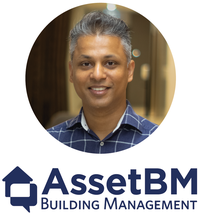
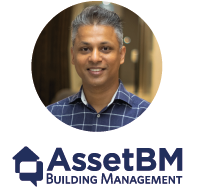
Updates as per direction, new photos

diff --git a/gary.html b/gary.html
@@ -17,12 +17,12 @@
 
             <a href='http://assetbm.com.au' title="AssetBM" style="border:none; text-decoration:none;">
                 <a href='http://assetbm.com.au' title="AssetBM" style="border:none; text-decoration:none;">
-                    <img width="200" src="jason.png" moz-do-not-send="true" style="border:none; width:200px; ">
+                    <img width="200" src="gary.png" moz-do-not-send="true" style="border:none; width:200px; ">
 
             </a>
         </td>
 
-   
+     
 
         <td style="margin:0; padding:0; border-left:solid #ccc 2px">
             <table id="sig2" cellspacing='0' cellpadding='0' border-spacing='0'
@@ -31,17 +31,17 @@
                     <td style="margin:0; padding:0 0 0 20px; font-family:'Arial',sans-serif; white-space:nowrap; ">
 
                         <h1 style="font-family:'Arial',sans-serif; font-size:18px;  margin-bottom:10px;">
-                            <span style="color:#000">Jason Phang</span><span
-                                style="font-size:14px;  font-weight:normal; text-transform:none;"><br>Building Manager, Teri Apartments</span>
+                            <span style="color:#000">Gary Stickland</span><span
+                                style="font-size:14px;  font-weight:normal; text-transform:none;"><br>Building Manager, North Apartments</span>
 
                         </h1>
                         <span
-                            style="text-decoration:none;font-family:'Arial',sans-serif; font-size:14px; color:black;">0457 237 488</span><br>
+                            style="text-decoration:none;font-family:'Arial',sans-serif; font-size:14px; color:black;">0427 213 296</span><br>
 
-                        <span style="font-size:14px;  font-weight:normal; text-transform:none;"><br>85 Market Street, South Melbourne VIC 3205</span><br>
+                        <span style="font-size:14px;  font-weight:normal; text-transform:none;"><br>33 Blackwood St North Melbourne, VIC 3051</span><br>
 
-                        <span style="font-size:12px;  font-weight:normal; text-transform:none;"><br>Office Hours 8:00 -
-                            12:00 M-F, Excl public holidays</span>
+                        <span style="font-size:12px;  font-weight:normal; text-transform:none;"><br>Office Hours 7:30 -
+                            4:30 M-F, Excl public holidays</span>
                         <span style="font-size:12px;  font-weight:normal; text-transform:none;"><br>After Hours
                             (emergencies only): (03) 9818 2488</span>
                         <br>
@@ -59,4 +59,5 @@
         transmission and any accompanying attachments contain confidential information intended only for the use of the
         individual or entity named above. Any dissemination, distribution, copying or action taken in reliance on the
         contents of this communication by anyone other than the intended recipient is strictly prohibited. If you have
-        received this communication in error please immediately delete the E-mail and notify the sender.</span></p><br>
+        received this communication in error please immediately delete the E-mail and notify the sender.</span></p>
+<br />

diff --git a/greg.html b/greg.html
@@ -16,15 +16,13 @@
         <td width="200" style="width:200px; margin:0; padding:0;">
 
             <a href='http://assetbm.com.au' title="AssetBM" style="border:none; text-decoration:none;">
-                <img style=" margin:0  15px 5px 15px;" src="https://assetbm.com.au/signatures/logo.png"
-                    moz-do-not-send="true" style="border:none; width:160px; height:41px;">
+                <a href='http://assetbm.com.au' title="AssetBM" style="border:none; text-decoration:none;">
+                    <img width="200" src="logo.png" moz-do-not-send="true" style="border:none; width:200px; ">
 
             </a>
         </td>
 
-        <td width="10"
-            style="width:10px!important; min-width:10px!important; max-width:10px!important; margin:0; padding:0;">
-            &nbsp;&nbsp;</td>
+       
 
         <td style="margin:0; padding:0; border-left:solid #ccc 2px">
             <table id="sig2" cellspacing='0' cellpadding='0' border-spacing='0'
@@ -42,7 +40,7 @@
 
                         <span style="font-size:14px;  font-weight:normal; text-transform:none;"><br>208 Camberwell Rd, Hawthorn East VIC 3123</span><br>
 
-                        <span style="font-size:12px;  font-weight:normal; text-transform:none;"><br>Office Hours 7:30 -
+                        <span style="font-size:12px;  font-weight:normal; text-transform:none;"><br>Office Hours 8:00 -
                             4:30 M-F, Excl public holidays</span>
                         <span style="font-size:12px;  font-weight:normal; text-transform:none;"><br>After Hours
                             (emergencies only): (03) 9818 2488</span>

diff --git a/daniel.html b/daniel.html
@@ -16,14 +16,12 @@
         <td width="200" style="width:200px; margin:0; padding:0;">
 
             <a href='http://assetbm.com.au' title="AssetBM" style="border:none; text-decoration:none;">
-                <img width="200" style=" margin:0  10px 10px 10px;" src="daniel.png" moz-do-not-send="true" style="border:none; width:200px; ">
+                <a href='http://assetbm.com.au' title="AssetBM" style="border:none; text-decoration:none;">
+                    <img width="200" src="daniel.png" moz-do-not-send="true" style="border:none; width:200px; ">
 
             </a>
         </td>
 
-        <td width="10"
-            style="width:10px!important; min-width:10px!important; max-width:10px!important; margin:0; padding:0;">
-            &nbsp;&nbsp;</td>
 
         <td style="margin:0; padding:0; border-left:solid #ccc 2px">
             <table id="sig2" cellspacing='0' cellpadding='0' border-spacing='0'
@@ -42,7 +40,7 @@
                         <span style="font-size:14px;  font-weight:normal; text-transform:none;"><br>101 Tram Road, Doncaster VIC 3108</span><br>
 
                         <span style="font-size:12px;  font-weight:normal; text-transform:none;"><br>Office Hours 8:00 -
-                            4:30 M-F, Excl public holidays</span>
+                            4:00 M-F, Excl public holidays</span>
                         <span style="font-size:12px;  font-weight:normal; text-transform:none;"><br>After Hours
                             (emergencies only): (03) 9818 2488</span>
                         <br>

diff --git a/richard.html b/richard.html
@@ -16,15 +16,13 @@
         <td width="200" style="width:200px; margin:0; padding:0;">
 
             <a href='http://assetbm.com.au' title="AssetBM" style="border:none; text-decoration:none;">
-                <img style=" margin:0  15px 5px 15px;" src="https://assetbm.com.au/signatures/logo.png"
-                    moz-do-not-send="true" style="border:none; width:160px; height:41px;">
+                <a href='http://assetbm.com.au' title="AssetBM" style="border:none; text-decoration:none;">
+                    <img width="200" src="richard.png" moz-do-not-send="true" style="border:none; width:200px; ">
 
             </a>
         </td>
 
-        <td width="10"
-            style="width:10px!important; min-width:10px!important; max-width:10px!important; margin:0; padding:0;">
-            &nbsp;&nbsp;</td>
+
 
         <td style="margin:0; padding:0; border-left:solid #ccc 2px">
             <table id="sig2" cellspacing='0' cellpadding='0' border-spacing='0'
@@ -35,7 +33,6 @@
                         <h1 style="font-family:'Arial',sans-serif; font-size:18px;  margin-bottom:10px;">
                             <span style="color:#000">Richard Ten</span><span
                                 style="font-size:14px;  font-weight:normal; text-transform:none;"><br>Building Manager, Trillium Apartments</span>
-
                         </h1>
                         <span
                             style="text-decoration:none;font-family:'Arial',sans-serif; font-size:14px; color:black;">0426 162 163</span><br>

diff --git a/fotios.html b/fotios.html
@@ -17,14 +17,11 @@
 
             <a href='http://assetbm.com.au' title="AssetBM" style="border:none; text-decoration:none;">
                 <a href='http://assetbm.com.au' title="AssetBM" style="border:none; text-decoration:none;">
-                    <img width="200" style=" margin:0  10px 10px 10px;" src="fotios.png" moz-do-not-send="true" style="border:none; width:200px; ">
+                    <img width="200" src="fotios.png" moz-do-not-send="true" style="border:none; width:200px; ">
 
             </a>
         </td>
 
-        <td width="10"
-            style="width:10px!important; min-width:10px!important; max-width:10px!important; margin:0; padding:0;">
-            &nbsp;&nbsp;</td>
 
         <td style="margin:0; padding:0; border-left:solid #ccc 2px">
             <table id="sig2" cellspacing='0' cellpadding='0' border-spacing='0'
@@ -44,7 +41,7 @@
                         </span><br>
 
                         <span style="font-size:12px;  font-weight:normal; text-transform:none;"><br>Office Hours 7:30 -
-                            4:30 M-F, Excl public holidays</span>
+                            4:00 M-F, Excl public holidays</span>
                         <span style="font-size:12px;  font-weight:normal; text-transform:none;"><br>After Hours
                             (emergencies only): (03) 9818 2488</span>
                         <br>

diff --git a/jack.html b/jack.html
@@ -17,16 +17,12 @@
 
             <a href='http://assetbm.com.au' title="AssetBM" style="border:none; text-decoration:none;">
                 <a href='http://assetbm.com.au' title="AssetBM" style="border:none; text-decoration:none;">
-                    <img width="200" style=" margin:0  10px 10px 10px;" src="jack.png" moz-do-not-send="true" style="border:none; width:200px; ">
+                    <img width="200" src="jack.png" moz-do-not-send="true" style="border:none; width:200px; ">
 
             </a>
         </td>
 
-        <td width="10"
-            style="width:10px!important; min-width:10px!important; max-width:10px!important; margin:0; padding:0;">
-            &nbsp;&nbsp;</td>
-
-        <td style="margin:0; padding:0; border-left:solid #ccc 2px">
+       <td style="margin:0; padding:0; border-left:solid #ccc 2px">
             <table id="sig2" cellspacing='0' cellpadding='0' border-spacing='0'
                 style="padding:0; margin:0; font-family:'Arial',sans-serif; font-size:12px; line-height:16px; color:#000; border-collapse:collapse; -webkit-text-size-adjust:none;">
                 <tr style="margin:0; padding:0;">

diff --git a/cameron.html b/cameron.html
@@ -16,15 +16,13 @@
         <td width="200" style="width:200px; margin:0; padding:0;">
 
             <a href='http://assetbm.com.au' title="AssetBM" style="border:none; text-decoration:none;">
-                <img style=" margin:0  15px 5px 15px;" src="https://assetbm.com.au/signatures/logo.png"
-                    moz-do-not-send="true" style="border:none; width:160px; height:41px;">
+                <a href='http://assetbm.com.au' title="AssetBM" style="border:none; text-decoration:none;">
+                    <img width="200" src="cameron.png" moz-do-not-send="true" style="border:none; width:200px; ">
 
             </a>
         </td>
 
-        <td width="10"
-            style="width:10px!important; min-width:10px!important; max-width:10px!important; margin:0; padding:0;">
-            &nbsp;&nbsp;</td>
+    
 
         <td style="margin:0; padding:0; border-left:solid #ccc 2px">
             <table id="sig2" cellspacing='0' cellpadding='0' border-spacing='0'

diff --git a/chetan.html b/chetan.html
@@ -16,15 +16,11 @@
         <td width="200" style="width:200px; margin:0; padding:0;">
 
             <a href='http://assetbm.com.au' title="AssetBM" style="border:none; text-decoration:none;">
-                <img style=" margin:0  15px 5px 15px;" src="https://assetbm.com.au/signatures/logo.png"
-                    moz-do-not-send="true" style="border:none; width:160px; height:41px;">
+                <a href='http://assetbm.com.au' title="AssetBM" style="border:none; text-decoration:none;">
+                    <img width="200" src="chetan.png" moz-do-not-send="true" style="border:none; width:200px; ">
 
             </a>
         </td>
-
-        <td width="10"
-            style="width:10px!important; min-width:10px!important; max-width:10px!important; margin:0; padding:0;">
-            &nbsp;&nbsp;</td>
 
         <td style="margin:0; padding:0; border-left:solid #ccc 2px">
             <table id="sig2" cellspacing='0' cellpadding='0' border-spacing='0'

diff --git a/krishna.html b/krishna.html
@@ -14,14 +14,14 @@
     <tr>
         <br>
         <td width="200" style="width:200px; margin:0; padding:0;">
-            <img width="200" style=" margin:0  10px 10px 10px;" src="krishna.png" moz-do-not-send="true" style="border:none; width:200px; ">
+            <a href='http://assetbm.com.au' title="AssetBM" style="border:none; text-decoration:none;">
+                <a href='http://assetbm.com.au' title="AssetBM" style="border:none; text-decoration:none;">
+                    <img width="200" src="krishna.png" moz-do-not-send="true" style="border:none; width:200px; ">
 
             </a>
         </td>
 
-        <td width="10"
-            style="width:10px!important; min-width:10px!important; max-width:10px!important; margin:0; padding:0;">
-        </td>
+       
 
         <td style="margin:0; padding:0; border-left:solid #ccc 2px">
             <table id="sig2" cellspacing='0' cellpadding='0' border-spacing='0'

diff --git a/lachlan.html b/lachlan.html
@@ -17,14 +17,12 @@
 
             <a href='http://assetbm.com.au' title="AssetBM" style="border:none; text-decoration:none;">
                 <a href='http://assetbm.com.au' title="AssetBM" style="border:none; text-decoration:none;">
-                    <img width="200" style=" margin:0  10px 10px 10px;" src="lachlan.png" moz-do-not-send="true" style="border:none; width:200px; ">
+                    <img width="200" src="lachlan.png" moz-do-not-send="true" style="border:none; width:200px; ">
 
             </a>
         </td>
 
-        <td width="10"
-            style="width:10px!important; min-width:10px!important; max-width:10px!important; margin:0; padding:0;">
-            &nbsp;&nbsp;</td>
+
 
         <td style="margin:0; padding:0; border-left:solid #ccc 2px">
             <table id="sig2" cellspacing='0' cellpadding='0' border-spacing='0'

diff --git a/index.html b/index.html
@@ -1,8 +1,12 @@
-<br><a href="fotios.html">Fotios Gillias </a>
-<br><a href="krishna.html">Krishna Ramadugu</a>
-<br><a href="jason.html">Jason Phang</a>
-<br><a href="jack.html">Jack Yong</a>
-<br><a href="richard.html">Richard Ten</a>
-<br><a href="daniel.html">Daniel Morrison</a>
 <br><a href="cameron.html">Cameron Miller</a>
+<br><a href="chetan.html">Chetan Ahir</a>
+<br><a href="daniel.html">Daniel Morrison</a>
+<br><a href="fotios.html">Fotios Gillias </a>
+<br><a href="gary.html">Gary Stickland</a>
+<br><a href="greg.html">Greg Selkrig</a>
+<br><a href="jack.html">Jack Yong</a>
+<br><a href="jason.html">Jason Phang</a>
+<br><a href="krishna.html">Krishna Ramadugu</a>
+<br><a href="lachlan.html">Lachlan Swanson</a>
 <br><a href="paul.html">Paul Chiu</a>
+<br><a href="richard.html">Richard Ten</a>

diff --git a/paul.html b/paul.html
@@ -22,10 +22,6 @@
             </a>
         </td>
 
-        <td width="10"
-            style="width:10px!important; min-width:10px!important; max-width:10px!important; margin:0; padding:0;">
-            &nbsp;&nbsp;</td>
-
         <td style="margin:0; padding:0; border-left:solid #ccc 2px">
             <table id="sig2" cellspacing='0' cellpadding='0' border-spacing='0'
                 style="padding:0; margin:0; font-family:'Arial',sans-serif; font-size:12px; line-height:16px; color:#000; border-collapse:collapse; -webkit-text-size-adjust:none;">
